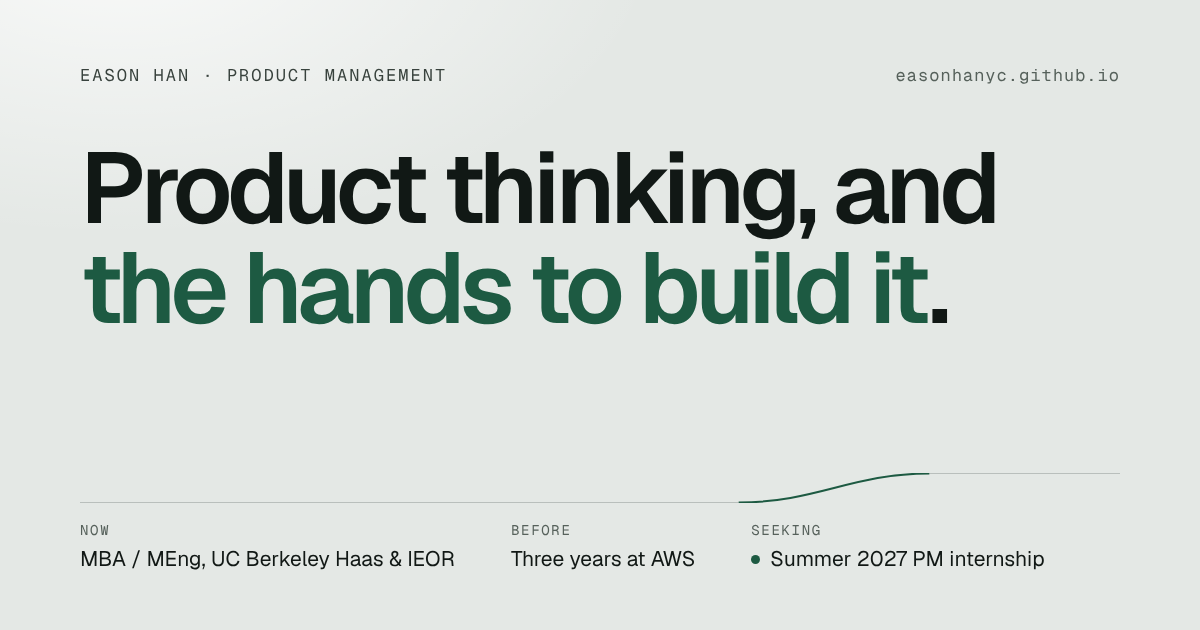
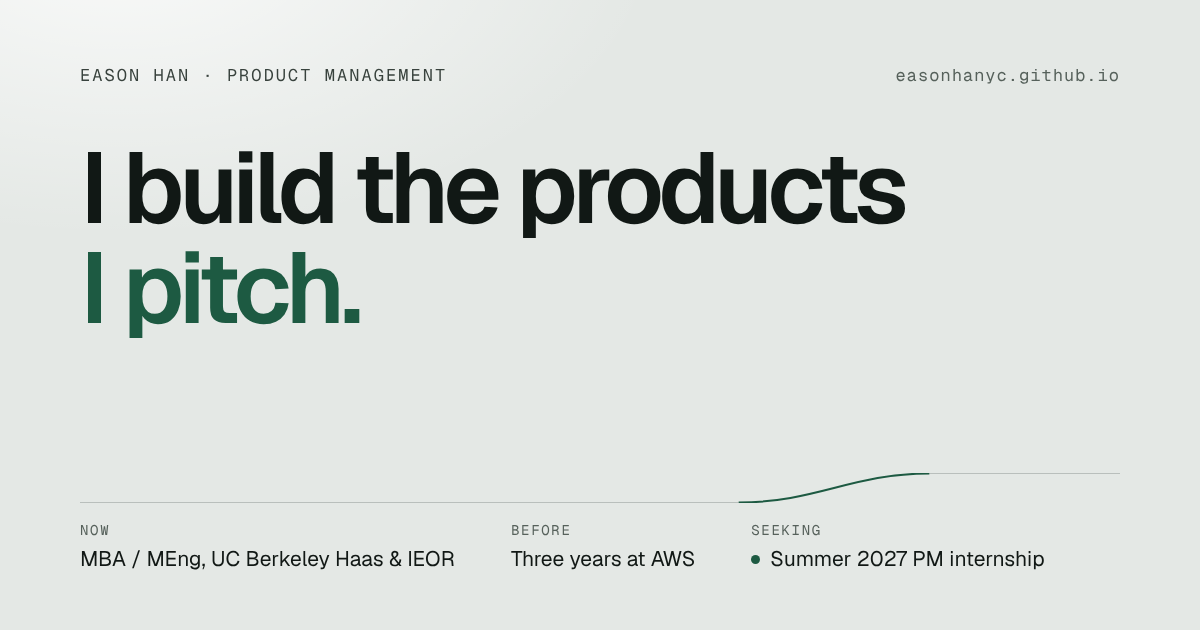
Put TripMatch on the page's own tiles, and match the share card's headline
In the light theme the TripMatch tile was the one dark slab in the
middle of a light page. It now sits on an ordinary tile like the ones
beside it: the rides are inset rows, the +1 buttons are the site's own
chips and fill green once a seat is taken, and a full ride shows a
dashed outline instead of a dimmed button. The four feature cells follow.
In the dark theme it reads the same as every other tile.

The link preview and its alt text now carry the site's headline, "I
build the products I pitch."

Claude-Session: https://claude.ai/code/session_01Y5LzhoYHnZFHzjp3DP478k

Changed region(s): [[0.0617, 0.2413, 0.8325, 0.5429]]

diff --git a/src/styles/global.css b/src/styles/global.css
@@ -443,38 +443,38 @@ h3{font-size:clamp(21px,1.8vw,26px); line-height:1.2; letter-spacing:-.03em}
 .cta .addr{font:500 13px var(--f-mono); color:var(--ink-3); overflow-wrap:anywhere}
 .cta .addr:hover{color:var(--accent)}
 
-/* TripMatch: a working copy of the rides board */
+/* TripMatch: a working copy of the rides board. It sits on an ordinary tile in
+   the page's own colours; the rides are inset rows, like the ranked list beside it. */
 .trip{display:flex; flex-direction:column; gap:14px}
 .trip .th,.tile .th{display:flex; justify-content:space-between; align-items:center; gap:12px}
 .trip h2{font-size:clamp(30px,2.8vw,42px); margin:0}
-.trip .d{font-size:15.5px; line-height:1.6; color:var(--plinth-ink-2); max-width:56ch; margin:0}
+.trip .d{font-size:15.5px; line-height:1.6; color:var(--ink-2); max-width:56ch; margin:0}
 .board{font-size:15px}
 .board ul{list-style:none; margin:0; padding:0; display:grid; gap:6px}
 .board li{
   display:grid; grid-template-columns:minmax(0,1fr) auto auto; align-items:center; gap:14px;
-  padding:9px 9px 9px 14px; background:var(--plinth-2); border-radius:13px; border:1px solid transparent;
+  padding:9px 9px 9px 14px; background:var(--bg-2); border-radius:13px; border:1px solid var(--rule);
   transition:border-color .35s, background-color .35s;
 }
-.board li b{display:block; font-weight:600; line-height:1.3; overflow:hidden; text-overflow:ellipsis; white-space:nowrap}
-.board li .when{display:block; font:400 12.5px/1.4 var(--f-mono); color:var(--plinth-ink-2)}
-.board .s{font:500 13px var(--f-mono); font-variant-numeric:tabular-nums; text-align:right; min-width:4.2em; display:inline-block; color:var(--plinth-ink)}
+.board li b{display:block; font-weight:600; line-height:1.3; color:var(--ink); overflow:hidden; text-overflow:ellipsis; white-space:nowrap}
+.board li .when{display:block; font:400 12.5px/1.4 var(--f-mono); color:var(--ink-3)}
+.board .s{font:500 13px var(--f-mono); font-variant-numeric:tabular-nums; text-align:right; min-width:4.2em; display:inline-block; color:var(--ink)}
 /* the buttons only exist once the script that drives them has run */
 .board button{display:none}
 :root.js .board button{
   display:block; min-width:84px; min-height:40px; padding:0 14px; border-radius:999px; cursor:pointer;
-  border:1px solid var(--plinth-line); background:rgba(255,255,255,.03); color:var(--plinth-ink); font:600 14px var(--f-sans);
+  border:1px solid var(--rule-strong); background:var(--surface); box-shadow:var(--hl); color:var(--ink); font:600 14px var(--f-sans);
   transition:background-color .2s, color .2s, border-color .2s, transform .15s;
 }
-:root.js .board button:hover{background:rgba(255,255,255,.09)}
+:root.js .board button:hover{border-color:var(--ink)}
 :root.js .board button:active{transform:scale(.95)}
-:root.js .board button:disabled{opacity:.45; cursor:default; background:transparent}
-.board button:focus-visible{outline-color:var(--plinth-ok)}
-.board li.in{border-color:rgba(134,212,172,.6); background:rgba(134,212,172,.08)}
-:root.js .board li.in button{background:var(--plinth-ok); border-color:var(--plinth-ok); color:#06130D}
+:root.js .board button:disabled{cursor:default; background:transparent; box-shadow:none; border-style:dashed; border-color:var(--rule-strong); color:var(--ink-3)}
+.board li.in{border-color:color-mix(in srgb, var(--accent) 55%, transparent); background:var(--tint)}
+:root.js .board li.in button{background:var(--accent); border-color:var(--accent); color:var(--accent-ink); box-shadow:none}
 .board .s.pop{animation:pop .55s var(--ease)}
-@keyframes pop{35%{transform:scale(1.4); color:var(--plinth-ok)}}
-.board .toast{min-height:1.6em; padding:10px 4px 0; margin:0; font-size:13.5px; color:var(--plinth-ink-2)}
-.board .toast b{color:var(--plinth-ok); font-weight:600}
+@keyframes pop{35%{transform:scale(1.4); color:var(--accent)}}
+.board .toast{min-height:1.6em; padding:10px 4px 0; margin:0; font-size:13.5px; color:var(--ink-2)}
+.board .toast b{color:var(--accent); font-weight:600}
 @media (max-width:420px){ .board li{gap:10px; padding-left:12px} :root.js .board button{min-width:64px} }
 
 /* Berkeley time */

diff --git a/scripts/og-card.html b/scripts/og-card.html
@@ -15,7 +15,7 @@
 </style>
 <div class="frame">
   <div class="top"><span>Eason Han · Product management</span><span class="url">easonhanyc.github.io</span></div>
-  <h1>Product thinking, and<br><em>the hands to build it</em>.</h1>
+  <h1>I build the products<br><em>I pitch.</em></h1>
   <svg viewBox="0 0 1200 30" preserveAspectRatio="none" aria-hidden="true">
     <path d="M0 29.5 H760" stroke="rgba(17,32,25,.2)" stroke-width="1"/>
     <path d="M760 29.5 C 850 29.5, 890 0.5, 980 0.5" stroke="#1D5A42" stroke-width="2"/>
